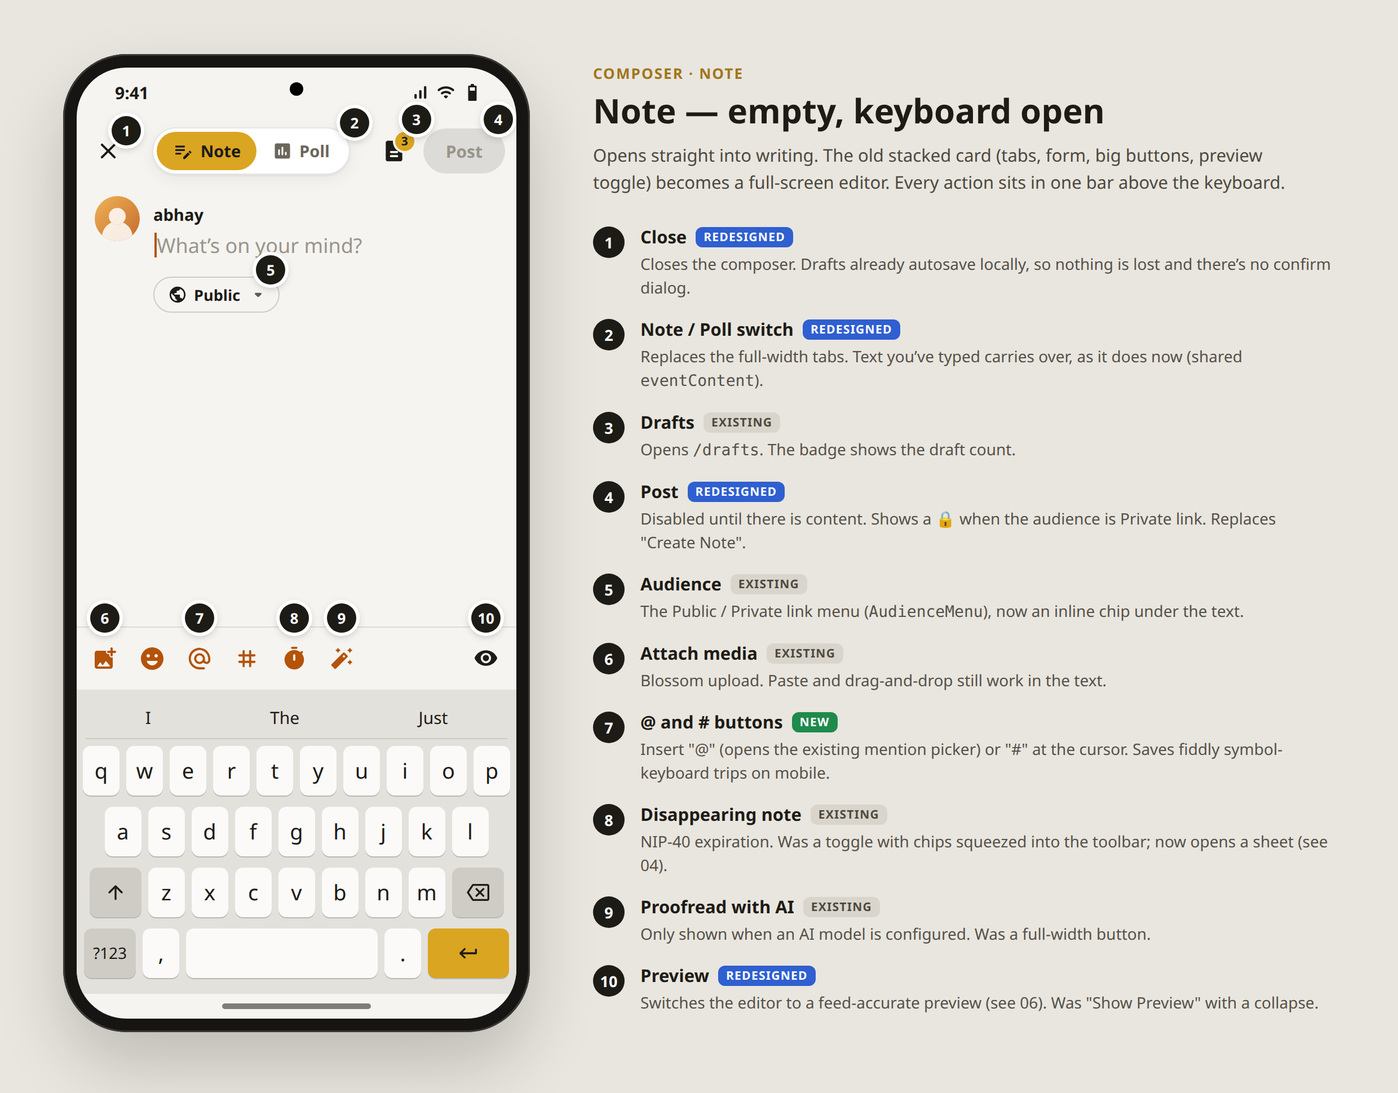
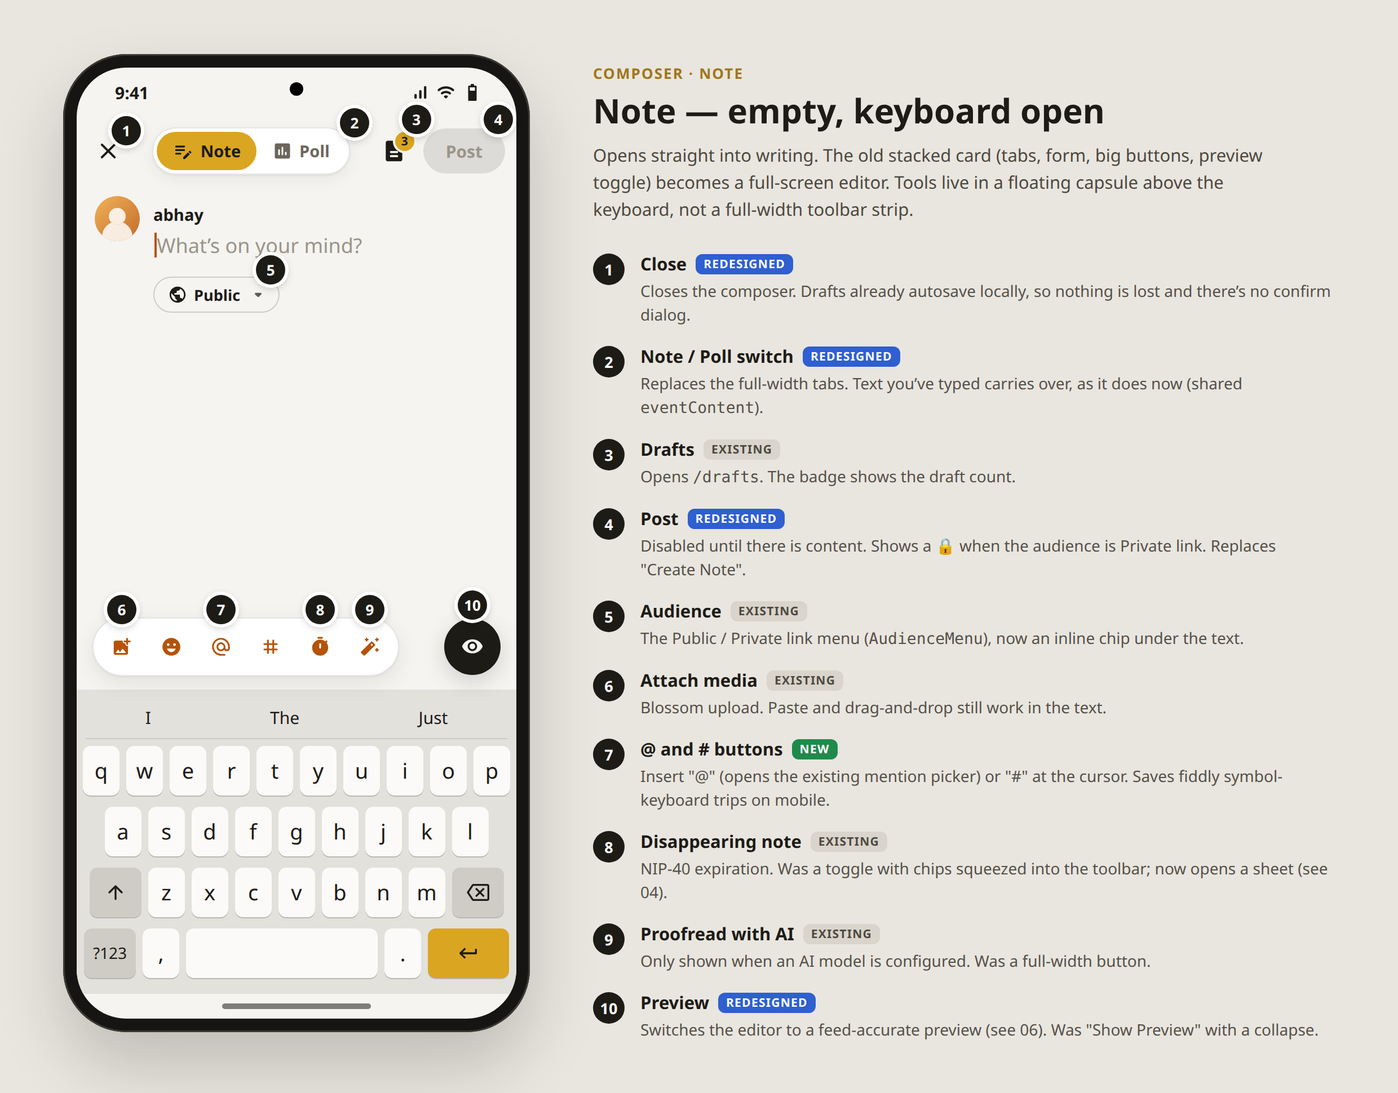
design(composer): floating tool dock + three style directions
Replace the keyboard-attached toolbar with a floating capsule dock and
move draft status next to the author. Add Glass, Neumorphic and Sunlit
Candy style explorations, each in light and dark.

diff --git a/designs/composer/src/styles.py b/designs/composer/src/styles.py
@@ -1,0 +1,198 @@
+"""
+Style-direction exploration: the same composer screens in three visual languages.
+
+    python3 designs/composer/src/styles.py
+
+Output: designs/composer/styles/*.png
+"""
+import os
+import build as B
+
+FONT = os.path.abspath(os.path.join(B.HERE, '../../../src/fonts/ShantellSans.ttf'))
+OUT = os.path.join(B.OUT, 'styles')
+os.makedirs(OUT, exist_ok=True)
+
+STYLE_CSS = r"""
+@font-face{font-family:"Shantell Sans";src:url("file://%FONT%") format("truetype");font-weight:300 800}
+.screen{isolation:isolate}
+.screen::before{content:"";position:absolute;inset:0;z-index:-1;pointer-events:none}
+
+/* =========================================================== GLASS */
+.st-glass .screen{background:#f1ece3}
+.st-glass .screen::before{background:
+  radial-gradient(60% 40% at 12% 12%, rgba(218,165,32,.75), transparent 70%),
+  radial-gradient(55% 36% at 100% 45%, rgba(214,110,30,.50), transparent 70%),
+  radial-gradient(70% 40% at 25% 98%, rgba(255,176,96,.55), transparent 70%),
+  radial-gradient(40% 30% at 85% 85%, rgba(250,209,63,.45), transparent 70%)}
+.st-glass{--glass:rgba(255,255,255,.46);--glass2:rgba(255,255,255,.64);--gb:rgba(255,255,255,.75);--gh:rgba(255,255,255,.9);--gs:rgba(90,60,10,.12)}
+.st-glass.dark{--glass:rgba(255,255,255,.07);--glass2:rgba(30,28,24,.72);--gb:rgba(255,255,255,.14);--gh:rgba(255,255,255,.14);--gs:rgba(0,0,0,.5)}
+.st-glass.dark .screen{background:#000}
+.st-glass.dark .screen::before{background:
+  radial-gradient(55% 35% at 10% 8%, rgba(250,209,63,.32), transparent 70%),
+  radial-gradient(45% 30% at 100% 42%, rgba(240,169,59,.24), transparent 70%),
+  radial-gradient(70% 38% at 25% 100%, rgba(240,120,40,.22), transparent 70%)}
+.st-glass :is(.seg,.tools,.card,.opt,.chip,.tcard,.mentionpop,.field,.choice,.tile,.addopt){
+  background:var(--glass);backdrop-filter:blur(22px) saturate(170%);-webkit-backdrop-filter:blur(22px) saturate(170%);
+  border:1px solid var(--gb);box-shadow:0 8px 28px var(--gs),inset 0 1px 0 var(--gh)}
+.st-glass .chip.secc,.st-glass .chip.warn{background:var(--glass)}
+.st-glass .chip.on,.st-glass .tile.on{background:var(--pri);color:var(--onpri)}
+.st-glass .choice.on{background:var(--pri-tint2);border-color:var(--gb)}
+.st-glass .opt.focus{border:1px solid var(--pri);box-shadow:0 0 0 4px var(--pri-tint),0 8px 28px var(--gs),inset 0 1px 0 var(--gh)}
+.st-glass .opt.err{border-color:var(--err)}
+.st-glass .sheet{background:var(--glass2);backdrop-filter:blur(30px) saturate(180%);border-top:1px solid var(--gb)}
+.st-glass .scrim{background:rgba(40,25,0,.22)}
+.st-glass.dark .scrim{background:rgba(0,0,0,.45)}
+.st-glass .card .srow+.srow{border-top-color:var(--gb)}
+.st-glass .kbd{background:rgba(255,255,255,.38);backdrop-filter:blur(24px)}
+.st-glass.dark .kbd{background:rgba(255,255,255,.06)}
+.st-glass .key{background:rgba(255,255,255,.75)}
+.st-glass.dark .key{background:rgba(255,255,255,.12)}
+.st-glass .tool.pv{background:rgba(29,27,22,.82);backdrop-filter:blur(10px)}
+.st-glass.dark .tool.pv{background:rgba(255,255,255,.85)}
+.st-glass .lic{background:rgba(255,255,255,.5)!important}
+.st-glass.dark .lic{background:rgba(255,255,255,.08)!important}
+
+/* =========================================================== NEUMORPHIC */
+.st-neu{--nb:#ebe5da;--nd:#cbc2b1;--nl:#ffffff}
+.st-neu.dark{--nb:#1e1d1b;--nd:#111010;--nl:#2c2a27}
+.st-neu .screen{background:var(--nb)}
+.st-neu :is(.seg,.tools,.card,.chip,.tcard,.mentionpop,.choice,.tile,.tool.pv){
+  background:var(--nb);border:none;box-shadow:6px 6px 14px var(--nd),-6px -6px 14px var(--nl)}
+.st-neu .chip{box-shadow:3px 3px 7px var(--nd),-3px -3px 7px var(--nl)}
+.st-neu :is(.opt,.field,.addopt){background:var(--nb);border:none;box-shadow:inset 4px 4px 9px var(--nd),inset -4px -4px 9px var(--nl)}
+.st-neu .opt.focus{box-shadow:inset 4px 4px 9px var(--nd),inset -4px -4px 9px var(--nl),0 0 0 2px var(--pri)}
+.st-neu .opt.err{box-shadow:inset 4px 4px 9px var(--nd),inset -4px -4px 9px var(--nl),0 0 0 2px var(--err)}
+.st-neu .seg div.on,.st-neu .tile.on,.st-neu .chip.on{background:var(--pri);box-shadow:inset 2px 2px 5px rgba(0,0,0,.18),inset -2px -2px 5px rgba(255,255,255,.35)}
+.st-neu .choice.on{box-shadow:inset 5px 5px 11px var(--nd),inset -5px -5px 11px var(--nl);background:var(--nb)}
+.st-neu .tool.pv{color:var(--text)}
+.st-neu .btn.fill{box-shadow:5px 5px 12px var(--nd),-5px -5px 12px var(--nl)}
+.st-neu .btn.fill.dis{background:var(--nb);color:var(--text3)}
+.st-neu .btn.out{border:none;box-shadow:5px 5px 12px var(--nd),-5px -5px 12px var(--nl)}
+.st-neu .sheet{background:var(--nb);box-shadow:0 -12px 30px rgba(0,0,0,.18)}
+.st-neu .card .srow+.srow{border-top:1px solid rgba(0,0,0,.05)}
+.st-neu .lic{background:var(--nb)!important;box-shadow:inset 2px 2px 5px var(--nd),inset -2px -2px 5px var(--nl)}
+.st-neu .kbd{background:var(--nb)}
+.st-neu .key{background:var(--nb);box-shadow:3px 3px 6px var(--nd),-3px -3px 6px var(--nl)}
+.st-neu .key.ent{background:var(--pri)}
+.st-neu .thumb{box-shadow:5px 5px 12px var(--nd),-5px -5px 12px var(--nl)}
+
+/* =========================================================== SUNLIT CANDY (ours) */
+.st-candy{--lip:rgba(150,90,10,.16);--glow:rgba(218,165,32,.30);--surf:rgba(255,255,255,.88);--hl:rgba(255,255,255,1)}
+.st-candy.dark{--lip:rgba(0,0,0,.9);--glow:rgba(250,209,63,.16);--surf:rgba(26,23,18,.88);--hl:rgba(255,255,255,.10)}
+.st-candy .screen{background:linear-gradient(180deg,#fff3d6 0%,#f8efe2 38%,#f5f1ea 100%)}
+.st-candy .screen::before{background:
+  radial-gradient(42% 26% at 92% 4%, rgba(250,209,63,.75), transparent 70%),
+  radial-gradient(60% 30% at 0% 100%, rgba(245,150,70,.22), transparent 70%)}
+.st-candy.dark .screen{background:#000}
+.st-candy.dark .screen::before{background:
+  radial-gradient(48% 26% at 92% 2%, rgba(250,209,63,.30), transparent 70%),
+  radial-gradient(60% 30% at 0% 100%, rgba(240,140,50,.14), transparent 70%)}
+.st-candy :is(.q,.sheet h2,.who b,.tcard b,.post .tx){font-family:"Shantell Sans",sans-serif}
+.st-candy .q{font-size:22px;font-weight:700}
+.st-candy .sheet h2{font-size:23px}
+.st-candy :is(.seg,.tools,.card,.tcard,.mentionpop,.field,.choice){
+  background:var(--surf);backdrop-filter:blur(14px);border:1px solid rgba(255,255,255,.7);
+  box-shadow:0 2px 0 var(--lip),0 14px 30px -12px var(--glow),inset 0 1px 0 var(--hl)}
+.st-candy.dark :is(.seg,.tools,.card,.tcard,.mentionpop,.field,.choice){border-color:rgba(255,255,255,.08)}
+.st-candy :is(.opt,.addopt,.chip,.tile){background:var(--surf);border:1.5px solid rgba(150,100,20,.14);box-shadow:0 3px 0 var(--lip),inset 0 1px 0 var(--hl)}
+.st-candy.dark :is(.opt,.addopt,.chip,.tile){border-color:rgba(255,255,255,.10)}
+.st-candy .addopt{border-style:dashed}
+.st-candy .opt.focus{border:2px solid var(--pri);box-shadow:0 3px 0 #b88a12,0 0 0 5px var(--pri-tint)}
+.st-candy .opt.err{border-color:var(--err);box-shadow:0 3px 0 rgba(198,40,40,.35)}
+.st-candy :is(.btn.fill,.seg div.on,.chip.on,.tile.on,.key.ent,.tool.pv.on){
+  background:linear-gradient(180deg,#ffd862 0%,#e7ad1f 100%);color:#2a1d00;border-color:transparent;
+  box-shadow:0 3px 0 #a87a0f,0 10px 18px -8px rgba(218,165,32,.8),inset 0 1px 0 rgba(255,255,255,.65)}
+.st-candy.dark :is(.btn.fill,.seg div.on,.chip.on,.tile.on,.key.ent,.tool.pv.on){
+  background:linear-gradient(180deg,#ffe58a 0%,#f5c632 100%);box-shadow:0 3px 0 #9c7a12,0 10px 22px -8px rgba(250,209,63,.55),inset 0 1px 0 rgba(255,255,255,.6)}
+.st-candy .btn.fill.dis{background:rgba(0,0,0,.06);color:var(--text3);box-shadow:none}
+.st-candy.dark .btn.fill.dis{background:rgba(255,255,255,.08)}
+.st-candy .btn.out{background:var(--surf);border:1.5px solid rgba(150,100,20,.14);box-shadow:0 3px 0 var(--lip)}
+.st-candy .btn.tonal{box-shadow:0 3px 0 var(--lip)}
+.st-candy .choice.on{border:2px solid var(--pri);background:linear-gradient(180deg,rgba(255,236,170,.9),rgba(255,248,225,.9))}
+.st-candy.dark .choice.on{background:linear-gradient(180deg,rgba(250,209,63,.20),rgba(250,209,63,.08))}
+.st-candy .tool{width:42px;height:42px}
+.st-candy .tools .tool:nth-child(1){color:#c2410c}.st-candy .tools .tool:nth-child(2){color:#d97706}
+.st-candy .tools .tool:nth-child(3){color:#b45309}.st-candy .tools .tool:nth-child(4){color:#a16207}
+.st-candy .tool.pv{background:#2a1d00;color:#ffd862;box-shadow:0 3px 0 #000,0 12px 22px -8px rgba(0,0,0,.5)}
+.st-candy.dark .tool.pv{background:#fff3d6;color:#2a1d00;box-shadow:0 3px 0 #9c8a66}
+.st-candy .sheet{background:linear-gradient(180deg,#fffaf0,#fff5e3);border-radius:34px 34px 0 0}
+.st-candy.dark .sheet{background:linear-gradient(180deg,#1d1912,#120f0a)}
+.st-candy .scrim{background:rgba(60,35,0,.28)}
+.st-candy .lic{background:linear-gradient(180deg,#fff0c2,#ffe08a)!important;color:#7a5200;box-shadow:inset 0 1px 0 #fff}
+.st-candy.dark .lic{background:rgba(250,209,63,.14)!important;color:var(--pri);box-shadow:none}
+.st-candy .kbd{background:rgba(236,226,208,.85)}
+.st-candy.dark .kbd{background:#141210}
+.st-candy .key{box-shadow:0 2px 0 rgba(120,80,20,.22)}
+.st-candy .mention{background:linear-gradient(180deg,#ffe9b0,#ffd97a);color:#7a3d00;box-shadow:0 2px 0 rgba(168,122,15,.35)}
+.st-candy.dark .mention{background:rgba(250,209,63,.18);color:var(--pri);box-shadow:none}
+.st-candy .thumb{box-shadow:0 3px 0 var(--lip),0 14px 26px -12px rgba(120,70,0,.5)}
+.st-candy .av{box-shadow:0 0 0 3px #fff,0 3px 0 3px var(--lip)}
+.st-candy.dark .av{box-shadow:0 0 0 3px #1a1712}
+.st-candy .badge{box-shadow:0 0 0 2px #fff3d6}
+"""
+
+STYLES = [
+    ('glass', 'Glass', 'Frosted panels floating over a soft glow made from the preset colors.',
+     ['Feels modern and airy. Works on OLED black (the glow carries the color).',
+      'Common on iOS and in crypto apps, so it differentiates less than it looks.',
+      'backdrop-filter costs GPU on low-end Android WebViews. Needs a solid fallback.']),
+    ('neu', 'Neumorphic', 'Surfaces pushed out of / pressed into one warm clay color.',
+     ['Very tactile and calm.',
+      'Low contrast: inputs and buttons are hard to tell apart, and it fails accessibility in places.',
+      'Can\'t do OLED black (needs a mid-tone background for the shadows), so dark mode becomes grey.']),
+    ('candy', 'Sunlit Candy — our own', 'Warm sunlight from the preset color, glossy pressable buttons with a little bottom lip (like real ballot buttons), and our Shantell Sans for questions and headings.',
+     ['Distinctly Pollerama: playful, warm and hand-made. Nothing else on Nostr looks like this.',
+      'High contrast, cheap to render (gradients and box-shadows, minimal blur).',
+      'Keeps OLED black in dark mode. The glow and lips come from the preset, so all 8 themes get their own mood.']),
+]
+
+def phone(inner, style, dark=False):
+    d = B.device(inner, dark)
+    return d.replace('<div class="device', f'<div class="device st-{style}', 1)
+
+def strip(h):
+    import re
+    return re.sub(r' data-(pin|side|dx|dy)="[^"]*"', '', h)
+
+SCREENS = [
+    ('Note · light', lambda: B.n_filled(pins=False), False),
+    ('Poll + sheet · light', lambda: strip(B.p_type()), False),
+    ('Note · dark', lambda: B.n_filled(pins=False), True),
+    ('Poll + sheet · dark', lambda: strip(B.p_type()), True),
+]
+
+def css():
+    return B.CSS + STYLE_CSS.replace('%FONT%', FONT)
+
+def page(body):
+    return f'<!doctype html><html><head><meta charset="utf-8"><style>{css()}</style></head><body>{body}</body></html>'
+
+SC = .74
+def cell(inner, style, dark):
+    w, h = int(414*SC), int(868*SC)
+    return f'<div style="width:{w}px;height:{h}px"><div style="transform:scale({SC});transform-origin:top left;width:414px">{phone(inner, style, dark)}</div></div>'
+
+def row(style, title, lede, notes, label_cols=True):
+    cells = ''.join(f'<div style="display:flex;flex-direction:column;gap:12px;align-items:center">{cell(fn(), style, d)}<b style="font-size:14px;color:#4d493f">{t}</b></div>' for t, fn, d in SCREENS)
+    li = ''.join(f'<li style="margin-bottom:8px">{n}</li>' for n in notes)
+    return f'''<div style="display:flex;gap:40px;align-items:flex-start">
+      <div style="width:330px;flex:none;padding-top:10px"><div class="legend"><div class="kicker">Direction</div><h1 style="font-size:28px">{title}</h1>
+      <p class="lede" style="margin-bottom:14px">{lede}</p><ul style="padding-left:18px;font-size:14px;line-height:1.5;color:#55514a">{li}</ul></div></div>
+      <div style="display:flex;gap:22px">{cells}</div></div>'''
+
+def board_all():
+    rows = ''.join(row(*s) for s in STYLES)
+    body = f'''<div style="padding:50px 56px;width:1800px;display:flex;flex-direction:column;gap:56px">
+      <div class="legend"><div class="kicker">Pollerama · composer</div><h1>Three style directions</h1>
+      <p class="lede" style="max-width:1100px">Same layout and features, three visual languages, each in light and dark. Golden preset. We start with the composer, and the winner then rolls out screen by screen.</p></div>{rows}</div>'''
+    B.render_to(os.path.join(OUT, '00-style-directions.png'), page(body), 1800, 2430)
+
+def hero(style, title):
+    cells = ''.join(cell(fn(), style, d) for t, fn, d in SCREENS)
+    body = f'<div style="padding:44px 50px;width:1420px"><div class="legend" style="margin-bottom:24px"><div class="kicker">Style direction</div><h1>{title}</h1></div><div style="display:flex;gap:26px">{cells}</div></div>'
+    B.render_to(os.path.join(OUT, f'{style}.png'), page(body), 1420, 860)
+
+if __name__ == '__main__':
+    board_all()
+    for s, t, *_ in STYLES:
+        hero(s, t)

diff --git a/designs/composer/src/build.py b/designs/composer/src/build.py
@@ -19,6 +19,18 @@ CHROME = os.environ.get('CHROME', 'google-chrome')
 
 # ---------------------------------------------------------------- styles
 CSS = r"""
+/* floating tool dock: one capsule of tools + a separate round preview button */
+.tray{display:flex;align-items:center;justify-content:space-between;gap:10px;padding:8px 14px 12px;flex:none;position:relative}
+.tools{display:flex;gap:2px;padding:4px;border-radius:999px;background:var(--surface);border:1px solid var(--div);box-shadow:0 6px 20px rgba(0,0,0,.08),0 1px 2px rgba(0,0,0,.05)}
+.tool{width:42px;height:42px;border-radius:50%;display:flex;align-items:center;justify-content:center;color:var(--sec);flex:none}
+.tool span{display:none}
+.tool.on-warn{background:var(--warn-tint);color:var(--warn)}
+.tool.pv{width:50px;height:50px;background:var(--text);color:var(--bg);box-shadow:0 6px 20px rgba(0,0,0,.15)}
+.tool.pv.on{background:var(--pri);color:var(--onpri)}
+.dark .tools{background:#1a1a1a}
+.draft{display:inline-flex;align-items:center;gap:4px;font-size:12.5px;color:var(--text2)}
+.draft::before{content:"·";margin-right:2px}
+
 :root{
   /* Golden preset (src/styles/themes.ts) */
   --pri:#DAA520; --onpri:#1b1b1b; --sec:#B45309; --onsec:#fff;
@@ -280,20 +292,28 @@ def appbar(kind='note', post='Post', post_on=True, drafts=3, pins=(), back=False
       <div class="btn fill{'' if post_on else ' dis'}"{pin("post","r",-6,-8)}>{post}</div>
     </div>'''
 
-def toolbar(kind='note', expiry=False, saved='Saved', preview=False, pins=()):
+def toolbar(kind='note', expiry=False, preview=False, pins=()):
+    """Floating tool tray: separate labeled pills above the keyboard, no full-width strip."""
     P = dict(pins)
-    def pin(k, side='c', dx=0, dy=-14):
+    def pin(k, side='c', dx=0, dy=-12):
         return f' data-pin="{P[k]}" data-side="{side}" data-dx="{dx}" data-dy="{dy}"' if k in P else ''
-    b = [f'<div class="iconbtn"{pin("attach")}>{ic("AddPhotoAlternateRounded",24)}</div>',
-         f'<div class="iconbtn">{ic("EmojiEmotionsRounded",24)}</div>',
-         f'<div class="iconbtn"{pin("at")}>{ic("AlternateEmailRounded",23)}</div>',
-         f'<div class="iconbtn">{ic("TagRounded",23)}</div>']
+    def tool(key, icon, label=None, cls=''):
+        lab = f'<span>{label}</span>' if label else ''
+        return f'<div class="tool{" round" if not label else ""} {cls}"{pin(key)}>{ic(icon,19)}{lab}</div>'
+    b = [tool('attach','AddPhotoAlternateRounded','Media'),
+         tool('emoji','EmojiEmotionsRounded'),
+         tool('at','AlternateEmailRounded'),
+         tool('hash','TagRounded')]
     if kind == 'note':
-        b.append(f'<div class="iconbtn{" warnon" if expiry else ""}"{pin("timer")}>{ic("TimerRounded",23)}</div>')
-        b.append(f'<div class="iconbtn"{pin("ai")}>{ic("AutoFixHighRounded",22)}</div>')
-    sv = (f'<div class="saved"{pin("saved","c",0,-14)}>{ic("CloudDoneRounded",17)}{saved}</div>' if saved else '')
-    pv = f'<div class="iconbtn{" tonal" if preview else ""}" style="color:var(--text)"{pin("preview")}>{ic("VisibilityRounded",22)}</div>'
-    return f'<div class="toolbar">{"".join(b)}<div class="sp"></div>{sv}{pv}</div>'
+        b.append(tool('timer','TimerRounded','24h' if expiry else 'Expire','on-warn' if expiry else ''))
+        b.append(tool('ai','AutoFixHighRounded','Proofread'))
+    pv = f'<div class="tool round pv{" on" if preview else ""}"{pin("preview")}>{ic("VisibilityRounded",20)}</div>'
+    return f'<div class="tray"><div class="tools">{"".join(b)}</div>{pv}</div>'
+
+def who(saved=None, pin=None):
+    p = f' data-pin="{pin}" data-side="r" data-dx="4" data-dy="-4"' if pin else ''
+    sv = f'<span class="draft"{p}>{ic("CloudDoneRounded",14)}{saved}</span>' if saved else ''
+    return f'<div class="who"><b>abhay</b>{sv}</div>'
 
 def keyboard(sugg=('the','and','I')):
     r1 = ''.join(f'<div class="key">{c}</div>' for c in 'qwertyuiop')
@@ -318,14 +338,16 @@ def legend(kicker, title, lede, items):
 def page(body, cls='board', dark=False):
     return f'<!doctype html><html><head><meta charset="utf-8"><style>{CSS}</style></head><body><div class="{cls}">{body}</div>{PIN_JS}</body></html>'
 
-def render(name, html_doc, w, h):
-    p = os.path.join(TMP, name + '.html'); open(p, 'w').write(html_doc)
-    out = os.path.join(OUT, name + '.png')
+def render_to(out, html_doc, w, h):
+    p = os.path.join(TMP, os.path.basename(out) + '.html'); open(p, 'w').write(html_doc)
     subprocess.run([CHROME, '--headless', '--no-sandbox', '--disable-gpu', '--hide-scrollbars',
-                    '--force-device-scale-factor=2', '--virtual-time-budget=1500',
+                    '--allow-file-access-from-files', '--force-device-scale-factor=2', '--virtual-time-budget=1500',
                     f'--window-size={w},{h}', f'--screenshot={out}', 'file://' + p],
                    stdout=subprocess.DEVNULL, stderr=subprocess.DEVNULL, check=True)
     print('wrote', os.path.relpath(out))
+
+def render(name, html_doc, w, h):
+    render_to(os.path.join(OUT, name + '.png'), html_doc, w, h)
 
 BOARD_W, BOARD_H = 1240, 970
 def board(name, phone_html, leg, dark=False):
@@ -353,17 +375,17 @@ def n_empty(dark=False, pins=True):
         <div class="text"><span class="caret"></span><span class="ph">What’s on your mind?</span></div>
       </div></div>
       <div class="meta">{audience_chip(pin=5 if pins else None)}</div>
-    </div></div>''' + toolbar('note', saved=None, pins=T) + keyboard(('I','The','Just'))
+    </div></div>''' + toolbar('note', pins=T) + keyboard(('I','The','Just'))
     return inner
 
 def n_filled(dark=False, pins=True):
     P = [('post',6)] if pins else []
-    T = [('timer',7),('saved',8)] if pins else []
+    T = [('timer',7)] if pins else []
     pin = (lambda n, side='r', dx=0, dy=0: f' data-pin="{n}" data-side="{side}" data-dx="{dx}" data-dy="{dy}"') if pins else (lambda *a, **k: '')
     inner = appbar('note', pins=P) + f'''
     <div class="content"><div class="scroll">
       <div class="editor"><div class="av"></div><div class="body">
-        <div class="who"><b>abhay</b></div>
+        {who('Draft saved', 8 if pins else None)}
         <div class="text"{pin(1,'l',-6,30)}>{note_text_filled()}</div>
       </div></div>
       <div class="media">
@@ -381,14 +403,14 @@ def n_filled(dark=False, pins=True):
       <div style="padding:18px 0 0 52px">
         <div class="hint"{pin(5,'l',-20,-2)}>{ic("InfoOutlined",16)}Paste or drop images and videos anywhere to attach.</div>
       </div>
-    </div></div>''' + toolbar('note', expiry=True, saved='Saved', pins=T)
+    </div></div>''' + toolbar('note', expiry=True, pins=T)
     return inner
 
 def n_mention():
     inner = appbar('note') + f'''
     <div class="content"><div class="scroll">
       <div class="editor"><div class="av"></div><div class="body">
-        <div class="who"><b>abhay</b></div>
+        {who('Saving…')}
         <div class="text">Shoutout to <span class="mention" style="background:var(--pri-tint2);color:var(--text)">@mi</span><span class="caret"></span></div>
       </div></div>
     </div>
@@ -396,7 +418,7 @@ def n_mention():
       <div class="mrow on"><div class="av sm g"></div><div style="flex:1"><b>Mira Okafor</b><span>mira@nostr.example</span></div>{ic("KeyboardReturnRounded",18,"var(--text2)")}</div>
       <div class="mrow"><div class="av sm b"></div><div><b>Mike Dilger</b><span>mike@gossip.example</span></div></div>
       <div class="mrow"><div class="av sm p"></div><div><b>Milo</b><span>npub1m1lo…8xq2</span></div></div>
-    </div></div>''' + toolbar('note', saved='Saving…', pins=[('at',2)]) + keyboard(('Mira','Mike','Milo'))
+    </div></div>''' + toolbar('note', pins=[('at',2)]) + keyboard(('Mira','Mike','Milo'))
     return inner
 
 def sheet_wrap(base, sheet):
@@ -502,7 +524,7 @@ def p_empty():
         <div class="label" style="margin-bottom:10px">Or start from a template</div>
         <div class="tmpl">{tc}</div></div>
       <div style="padding-top:20px" data-pin="4" data-side="r" data-dx="6" data-dy="40">{SETTINGS_ROWS('Single choice','In 7 days','Off')}</div>
-    </div></div>''' + toolbar('poll', saved=None)
+    </div></div>''' + toolbar('poll')
     return inner
 
 def p_filled(pins=True, dark=False):
@@ -510,7 +532,7 @@ def p_filled(pins=True, dark=False):
     inner = appbar('poll', pins=[('post',8)] if pins else []) + f'''
     <div class="content"><div class="scroll">
       <div class="editor"><div class="av"></div><div class="body">
-        <div class="who"><b>abhay</b></div>
+        {who('Draft saved')}
         <div class="q">Best way to start a Sunday? <span class="hash" style="font-weight:700">#coffee</span></div>
       </div></div>
       <div class="opts">
@@ -521,7 +543,7 @@ def p_filled(pins=True, dark=False):
         <div class="addopt"{pin(5,'r',6,12)}>{ic("AddRounded",20)}Add option</div>
       </div>
       <div style="padding-top:18px"{pin(6,'r',6,20)}>{SETTINGS_ROWS('Single choice','In 3 days','Off')}</div>
-    </div></div>''' + toolbar('poll', saved='Saved', pins=[('preview',7)] if pins else [])
+    </div></div>''' + toolbar('poll', pins=[('preview',7)] if pins else [])
     return inner
 
 def p_type():
@@ -628,7 +650,7 @@ def overview(items):
 # ---------------------------------------------------------------- main
 if __name__ == '__main__':
     board('01-note-empty', n_empty(), legend('Composer · note', 'Note — empty, keyboard open',
-        'Opens straight into writing. The old stacked card (tabs, form, big buttons, preview toggle) becomes a full-screen editor. Every action sits in one bar above the keyboard.',
+        'Opens straight into writing. The old stacked card (tabs, form, big buttons, preview toggle) becomes a full-screen editor. Tools live in a floating capsule above the keyboard, not a full-width toolbar strip.',
         [('Close','changed','Closes the composer. Drafts already autosave locally, so nothing is lost and there’s no confirm dialog.'),
          ('Note / Poll switch','changed','Replaces the full-width tabs. Text you’ve typed carries over, as it does now (shared <code>eventContent</code>).'),
          ('Drafts','same','Opens <code>/drafts</code>. The badge shows the draft count.'),

diff --git a/designs/composer/README.md b/designs/composer/README.md
@@ -18,4 +18,8 @@ No existing composer feature is removed.
 
 Colors are the Golden preset from `src/styles/themes.ts`. Icons are the real `@mui/icons-material` Rounded set. The exact CSS (sizes, radii, spacing) is in `src/build.py`.
 
-Regenerate with `python3 designs/composer/src/build.py` (needs Google Chrome).
+## Style directions (`styles/`)
+
+`styles/00-style-directions.png` shows the same composer in three visual languages (Glass, Neumorphic, and our own **Sunlit Candy**), each in light and dark. There is also one image per style. The style CSS is in `src/styles.py` and layers on top of the base layout in `src/build.py`.
+
+Regenerate with `python3 designs/composer/src/styles.py`, and the screens with `python3 designs/composer/src/build.py` (needs Google Chrome).
